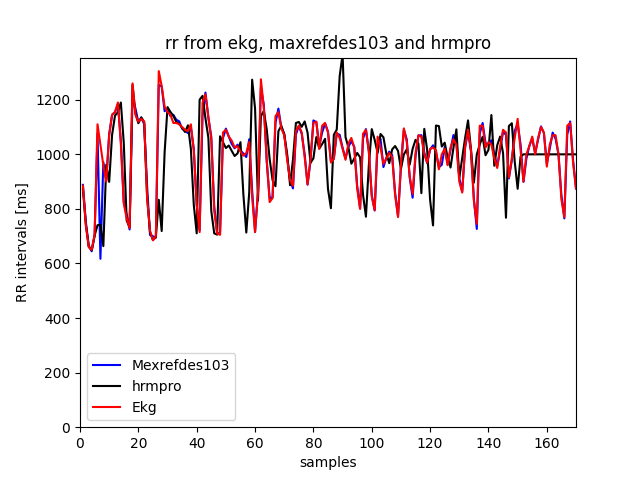
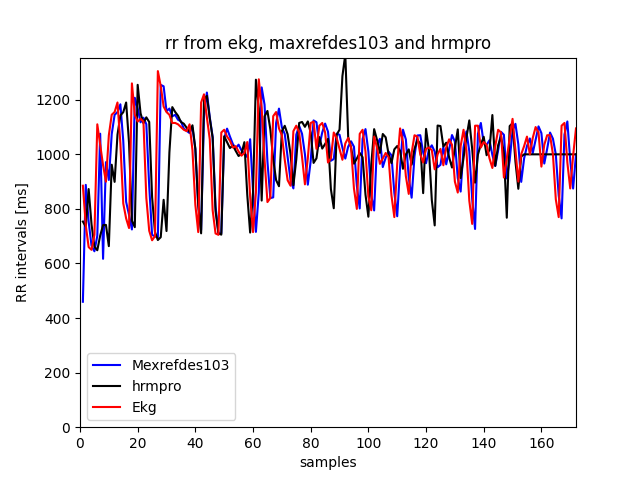
Flyttet sammenligningsfiler og oprettet figurer til alle sammenligningsdata

diff --git a/main.py b/main.py
@@ -10,7 +10,7 @@ from hr_calculator import*
 from Correction_of_lists_with_different_lengths import *
 
 
-nummer = 3
+nummer = 4
 ekg = EKG_extract_class()
 ppg = ppg_extract_class()
 writer = Filewriter_class()
@@ -35,6 +35,11 @@ ppg_rr = list_corrected[0]
 hrmpro_rr = list_corrected[1]
 ekg_rr = list_corrected[2]
 
+# print(len(ppg_rr))
+# print(len(hrmpro_rr))
+# print(len(ekg_rr))
+
+
 # Udtrækker hr
 hr_hrmpro_algo = hrmpro.get_hr()
 hr_ppg_algo = ppg.get_hr()
@@ -53,14 +58,14 @@ lag_hr_ppg_calculated_vs_algo = kryds.get_korrelation(hr_ppg_algo,hr_ppg_calcula
 print("Lag of ppg_calculated is " + str(lag_hr_ppg_calculated_vs_algo))
 
 # Dette plotter alle interessante koblinger af hr værdier på skift - bedre med subplot?    
-plotter.plot_hr_ppg_hrmpro(hr_hrmpro_algo, hr_hrmpro_calculated, "hr_algorithm", "hr_calculated", "hr from hrm_pro algorithm and calculated", 0)
-plotter.plot_hr_ppg_hrmpro(hr_ppg_algo, hr_ppg_calculated_modified, "hr_algorithm", "hr_calculated", "hr from maxrefdes103 algorithm and calculated lag 0", 0) # !!! MODIFIED !!!
-plotter.plot_hr_ppg_hrmpro(hr_ppg_algo, hr_ppg_calculated_modified, "hr_algorithm", "hr_calculated", "hr from maxrefdes103 algorithm and calculated lag = " + str(lag_hr_ppg_calculated_vs_algo), lag_hr_ppg_calculated_vs_algo) # !!! MODIFIED !!!
-plotter.plot_hr_ppg_hrmpro(hr_ppg_algo, hr_hrmpro_algo, "hrm_pro", "Mexrefdes103", "hr from Mexrefdes103 and hrmpro, Algorithm hr", 0)
-plotter.plot_hr_ppg_hrmpro(hr_ppg_calculated, hr_hrmpro_calculated, "Mexrefdes103", "hrm_pro", "hr from ppg and hrmpro calculated", 0)
+# plotter.plot_hr_ppg_hrmpro(hr_hrmpro_algo, hr_hrmpro_calculated, "hr_algorithm", "hr_calculated", "hr from hrm_pro algorithm and calculated", 0)
+# plotter.plot_hr_ppg_hrmpro(hr_ppg_algo, hr_ppg_calculated_modified, "hr_algorithm", "hr_calculated", "hr from maxrefdes103 algorithm and calculated lag 0", 0) # !!! MODIFIED !!!
+# plotter.plot_hr_ppg_hrmpro(hr_ppg_algo, hr_ppg_calculated_modified, "hr_algorithm", "hr_calculated", "hr from maxrefdes103 algorithm and calculated lag = " + str(lag_hr_ppg_calculated_vs_algo), lag_hr_ppg_calculated_vs_algo) # !!! MODIFIED !!!
+# plotter.plot_hr_ppg_hrmpro(hr_ppg_algo, hr_hrmpro_algo, "hrm_pro", "Mexrefdes103", "hr from Mexrefdes103 and hrmpro, Algorithm hr", 0)
+# plotter.plot_hr_ppg_hrmpro(hr_ppg_calculated, hr_hrmpro_calculated, "Mexrefdes103", "hrm_pro", "hr from ppg and hrmpro calculated", 0)
 
 # Gemmer rr værdier i en fil. 
-# writer.SaveLineToFile_ekg_ppg_hrmpro('sammenligning2.txt', ekg_rr, ppg_rr, hrmpro_rr, 0, ppg.get_timestamp())
+writer.SaveLineToFile_ekg_ppg_hrmpro('sammenligning' + str(nummer) + '.txt', ekg_rr, ppg_rr, hrmpro_rr, 0, ppg.get_timestamp())
 # Plotter EKg_hr, ppg_hr og hrmpro_hr hvor jeg selv har beregnet dem:
 plotter.plot_hr_ppg_hrmpro_ekg(hr_ppg_calculated, hr_hrmpro_calculated, hr_ekg, 'maxRefDes103', 'Hrm_pro', 'EKG', 'hr ekg, hrm_pro og ppg calculated')
 
@@ -68,11 +73,7 @@ lag_ppg = kryds.get_korrelation(ekg_rr, ppg_rr, 0)
 lag_hrmpro = kryds.get_korrelation(ekg_rr, hrmpro_rr,0)
 print(lag_hrmpro)
 print(lag_ppg)
+lag_ppg = 0
+lag_hrmpro = 0
 plotter.plot_rr_from_3_sources(ppg_rr,ekg_rr,hrmpro_rr, lag_ppg, lag_hrmpro, 'rr from ekg, maxrefdes103 and hrmpro')
 
-"""
-print("ppg is lagging the ekg with " + str(lag_ppg)) #minus betyder, at de første -x værdier i ppg_rr ligger før EG'signalet, svarende til at slette de første x celler i excel
-
-writer.SaveLineToFile('Accel3_pp_ekg_rr.txt', ekg_rr, ppg_rr, lag, ppg.get_timestamp())
-ekg.plot_ekg()
-"""

diff --git a/plot.py b/plot.py
@@ -5,14 +5,15 @@ class plotter_class:
         self.number = number
         self.path = "C:/Users/hah/Documents/VISUAL_STUDIO_CODE/EKG_Maxin_hrmpro_sammenligning/Sammenligningsdata/Figurer/"
     def plot_rr_from_3_sources(self, ppg_rr, ekg_rr, hrmpro_rr, lag_ppg, lag_hrmpro, title):
-        self.ppg_rr = ppg_rr
-        self.hrmpro_rr = hrmpro_rr
-        self.lag_korregtion(lag_ppg,lag_hrmpro, 1000)
+        if(lag_ppg != 0 and lag_hrmpro != 0):
+            self.ppg_rr = ppg_rr
+            self.hrmpro_rr = hrmpro_rr
+            self.lag_korregtion(lag_ppg,lag_hrmpro, 1000)
 
-        # list_corrected = self.correct_3_lists(ppg_rr, hrmpro_rr, ekg_rr, 1000)
-        # ppg_rr = list_corrected[0]
-        # hrmpro_rr = list_corrected[1]
-        # ekg_rr = list_corrected[2]
+            list_corrected = self.correct_3_lists(ppg_rr, hrmpro_rr, ekg_rr, 1000)
+            ppg_rr = list_corrected[0]
+            hrmpro_rr = list_corrected[1]
+            ekg_rr = list_corrected[2]
         
         #Laver plot og plotter rr-værdier
         i = 1
